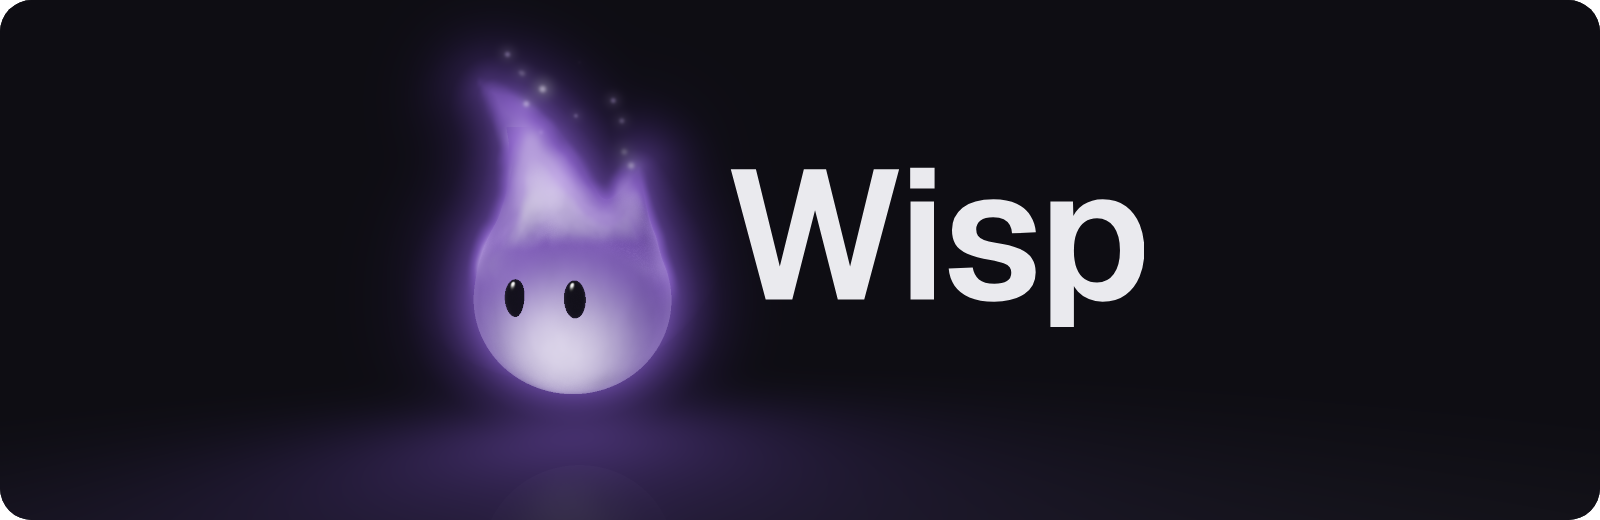
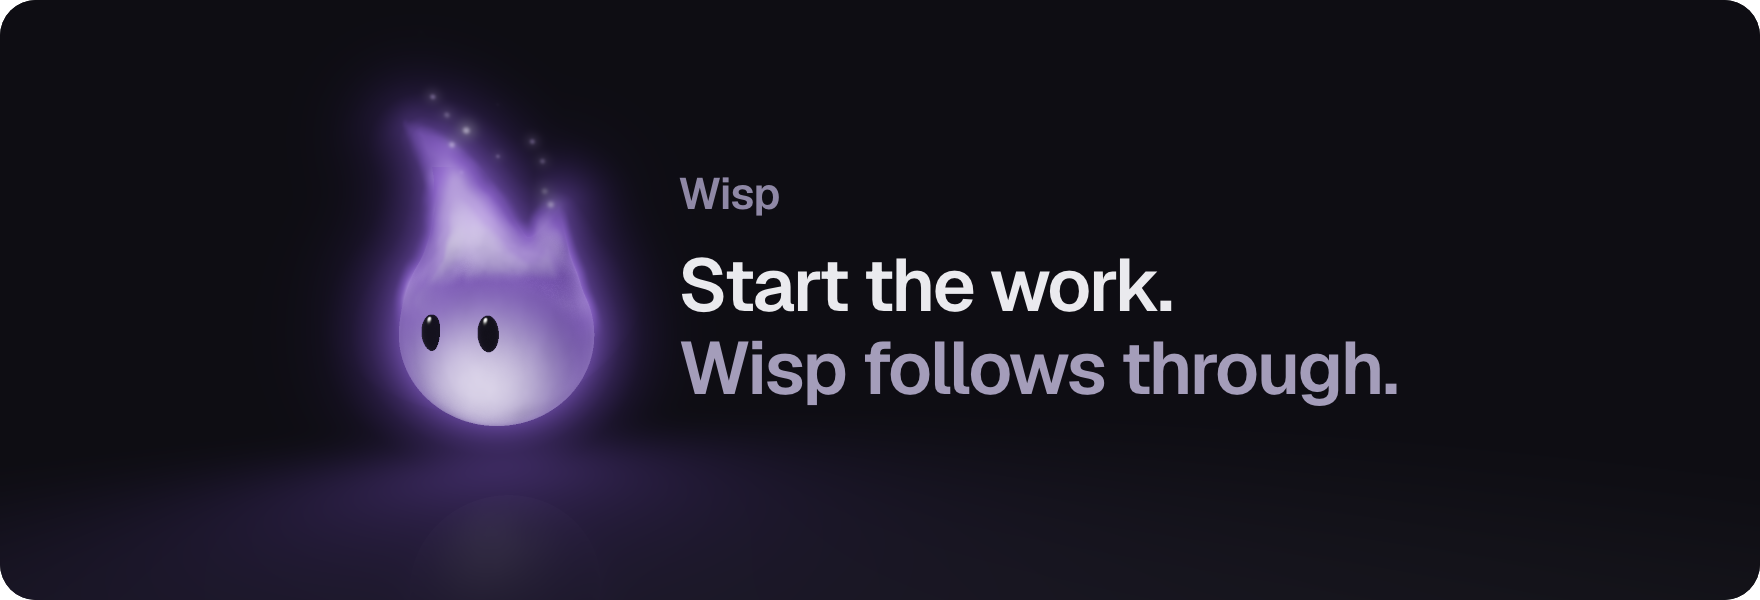
docs(readme): the header carries the promise, centred, and lines up with the hero (#360)
The header was the spirit beside a large "Wisp" and nothing else, sitting high
against the spirit and off the card's centre, with the promise and two more
lines under it at uneven gaps. It is now the social card's lockup at README
size: the spirit, a small name, and "Start the work. Wisp follows through."
as the headline, the group centred in the card.

Both images are 880 wide, so GitHub clamps them to the same column and their
edges line up (800 against 880 left them misaligned). Each sits in its own
paragraph, so the gaps between the header, the one line under it and the hero
come from the same margin. The header's alt text carries the promise.

Changed region(s): [[0.1562, 0.0615, 0.8125, 1.0]]

diff --git a/scripts/brand/build.ts b/scripts/brand/build.ts
@@ -47,7 +47,7 @@ const GEIST_WOFF2 = join(
 /** Social preview: GitHub renders it at 1280×640; we ship exactly that, at 2×. */
 const OG = { width: 1280, height: 640, scale: 2 } as const;
 /** README header: drawn at 800×260 on GitHub, shipped at 2×. */
-const README_HEADER = { width: 800, height: 260, scale: 2 } as const;
+const README_HEADER = { width: 880, height: 300, scale: 2 } as const;
 /** iOS home screen. Opaque plate — iOS masks the corners itself, and a
  *  transparent icon there comes out as a black square. */
 const TOUCH_ICON = 180;
@@ -296,23 +296,29 @@ img{position:absolute;inset:-${bleed}px;width:calc(100% + ${bleed * 2}px);height
     1,
   );
 
-  // README header: the 3D spirit on its stage and the wordmark beside it, a card
-  // with rounded, transparent corners so it sits on GitHub's light page as a
-  // card rather than a hard dark slab (the hero under it has the same corners).
-  // The promise stays text in README.md, under the image, where it can be read,
-  // searched and translated.
+  // README header: the social card's lockup at README size. The spirit on its
+  // stage, and beside it the name and the promise, the group centred in the card
+  // (the spirit's flame leans left, so the group is measured flame tip to text end).
+  // A card with rounded, transparent corners, so it sits on GitHub's light page as
+  // a card rather than a hard dark slab; 880 wide like the hero under it, so on
+  // GitHub both clamp to the same column and their edges line up. The image's alt
+  // text carries the promise for anyone who cannot see it.
   const readmeStage = await source("spirit-3d-readme.png");
   await shoot(
     `<!doctype html><meta charset="utf-8"><style>
+${fontFace}
 *{box-sizing:border-box}
-html,body{margin:0;width:${README_HEADER.width}px;height:${README_HEADER.height}px;background:transparent;overflow:hidden}
-.card{position:absolute;inset:0;border-radius:16px;overflow:hidden;background:${PALETTE.plate}}
+html,body{margin:0;width:${README_HEADER.width}px;height:${README_HEADER.height}px;background:transparent;overflow:hidden;
+  font-family:'Geist',ui-sans-serif,system-ui;-webkit-font-smoothing:antialiased}
+.card{position:absolute;inset:0;border-radius:18px;overflow:hidden;background:${PALETTE.plate}}
 .stage{position:absolute;inset:0;width:100%;height:100%;display:block}
-.word{position:absolute;left:362px;top:50%;transform:translateY(-58%)}
-.word svg{display:block}
+.copy{position:absolute;left:339px;top:50%;transform:translateY(-54%)}
+.name{font-size:22px;line-height:1;font-weight:600;letter-spacing:-0.02em;color:#8f88a6;margin:0 0 14px}
+h1{font-size:37px;line-height:1.12;font-weight:600;letter-spacing:-0.03em;color:${PALETTE.paper};margin:0}
+h1 em{font-style:normal;color:#a49dba}
 </style>
 <div class="card"><img class="stage" src="${readmeStage}" alt="">
-<div class="word">${wordmarkSvg(66, PALETTE.paper)}</div></div>`,
+<div class="copy"><div class="name">Wisp</div><h1>Start the work.<br><em>Wisp follows through.</em></h1></div></div>`,
     "readme-header.png",
     README_HEADER.width,
     README_HEADER.height,

diff --git a/brand/README.md b/brand/README.md
@@ -95,7 +95,7 @@ way a designer's exported artwork would be:
 |---|---|
 | `spirit-3d-icon.png` | 1024×1024, the icon master: the spirit on `PALETTE.plate`, inside the central 80% circle |
 | `spirit-3d-og.png` | 2560×1280, the spirit on the right of a stage with a floor and its reflection |
-| `spirit-3d-readme.png` | 1600×520, the same stage, the spirit left of centre to leave room for the wordmark |
+| `spirit-3d-readme.png` | 1760×600, the same stage, the spirit left of centre to leave room for the name and the promise |
 
 Their ground is exactly `PALETTE.plate` with no vignette, so the generator can
 put them on a plate of that colour without a seam. Replacing one means rendering
@@ -120,7 +120,7 @@ off in a visible square on the ground behind it.
 | `wisp-mark-flat.svg` | 64 viewBox | the flat spirit, for small or flat use |
 | `wisp-logo-dark.svg` | 72 tall | lockup for dark grounds (bloom, light wordmark) |
 | `wisp-logo-light.svg` | 72 tall | lockup for light grounds (no bloom, dark wordmark) |
-| `readme-header.png` | 1600×520 | the README's header: the 3D spirit and the wordmark on a card with rounded, transparent corners, drawn at 800×260 |
+| `readme-header.png` | 1760×600 | the README's header: the social card's lockup (the 3D spirit, the name, the promise) on a card with rounded, transparent corners, drawn at 880×300 to match the hero's width |
 | `apple-touch-icon.png` | 180×180 | iOS home screen — opaque plate on purpose |
 | `pwa-icon-192.png` | 192×192 | web app installation, opaque plate |
 | `pwa-icon-512.png` | 512×512 | web app installation and Android maskable icon |

diff --git a/README.md b/README.md
@@ -1,16 +1,11 @@
 <div align="center">
 
-<img src="brand/readme-header.png" alt="Wisp" width="800" height="260" />
+<p><img src="brand/readme-header.png" alt="Wisp. Start the work. Wisp follows through." width="880" /></p>
 
-**Start the work. Wisp follows through.**
+<p>Run coding agents in parallel. Keep their work separate.<br />
+Self-hosted · No Wisp account · Desktop, browser, phone, and CLI</p>
 
-Run coding agents in parallel. Keep their work separate.
-
-Self-hosted · No Wisp account · Desktop, browser, phone, and CLI
-
-<br />
-
-<img src="docs/assets/readme-hero.webp" width="880" alt="Wisp with five coding-agent tasks running on the wisp repository: the task list, one agent's conversation, and that task's brief and auto-merge and auto-fix switches, with the same brief open on a phone." />
+<p><img src="docs/assets/readme-hero.webp" width="880" alt="Wisp with five coding-agent tasks running on the wisp repository: the task list, one agent's conversation, and that task's brief and auto-merge and auto-fix switches, with the same brief open on a phone." /></p>
 
 </div>
 
